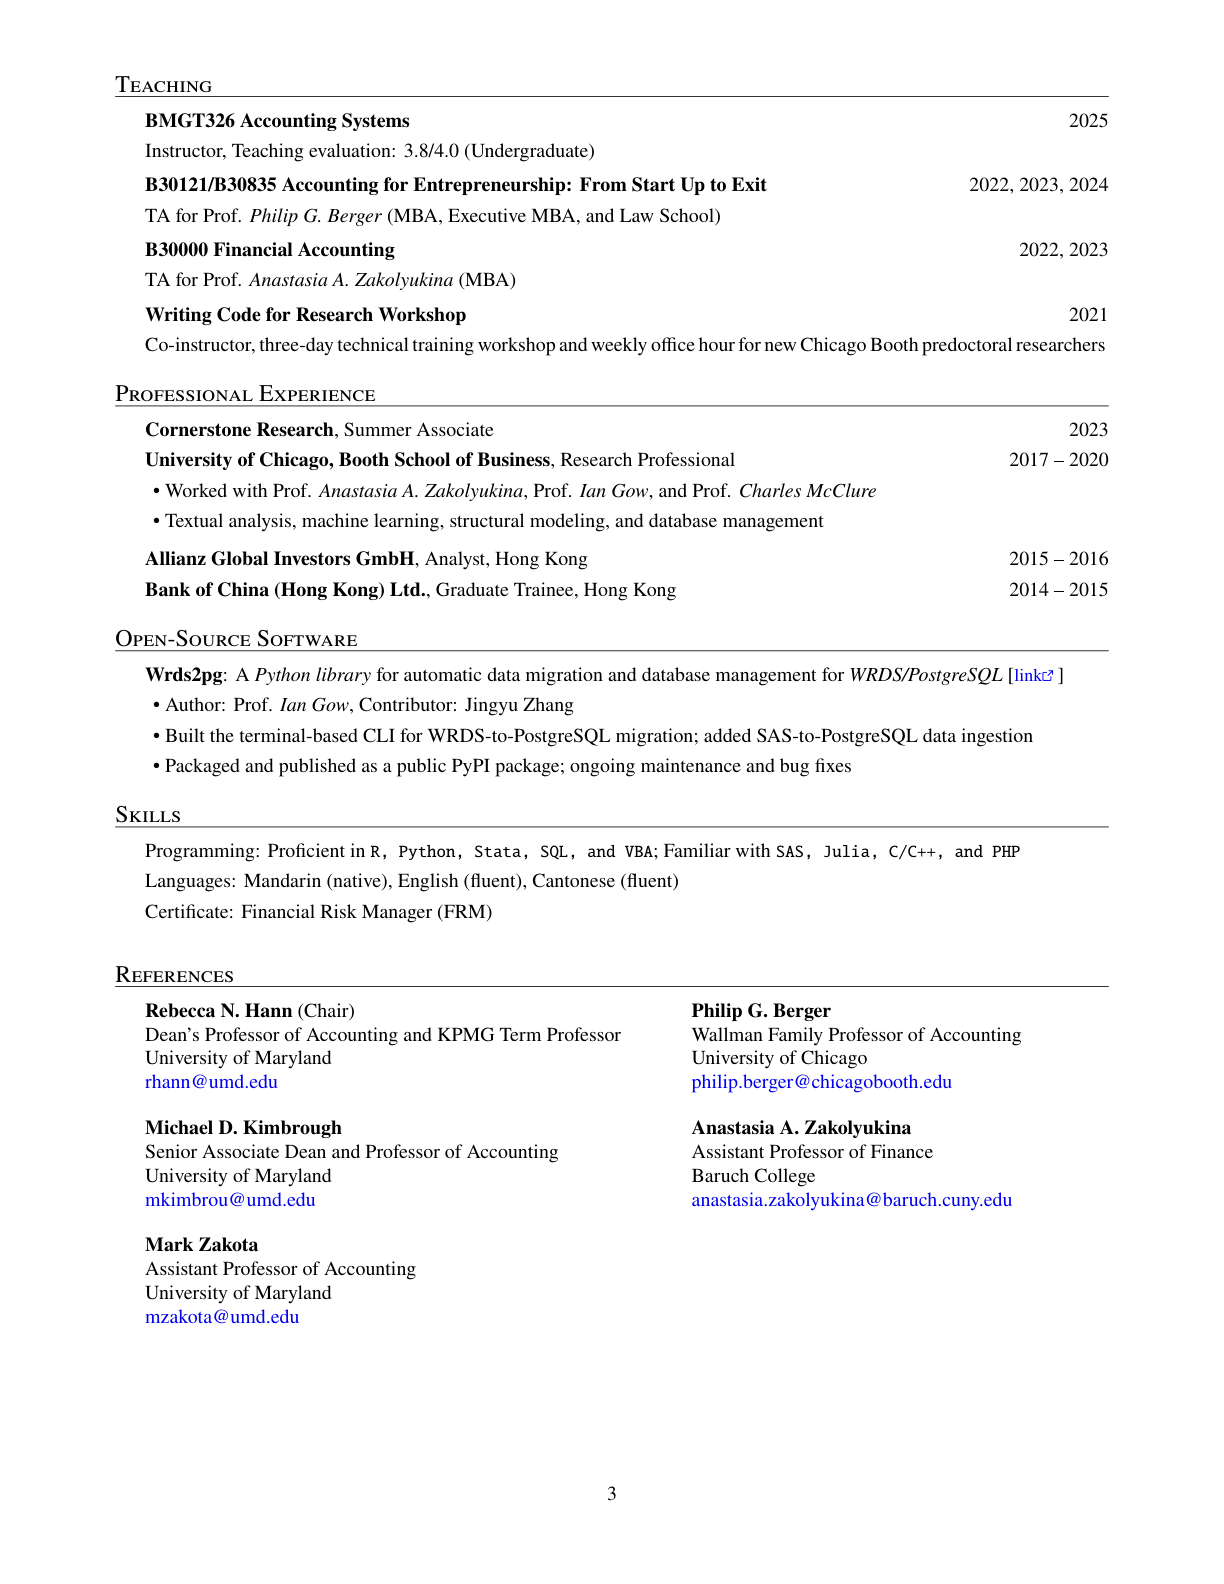
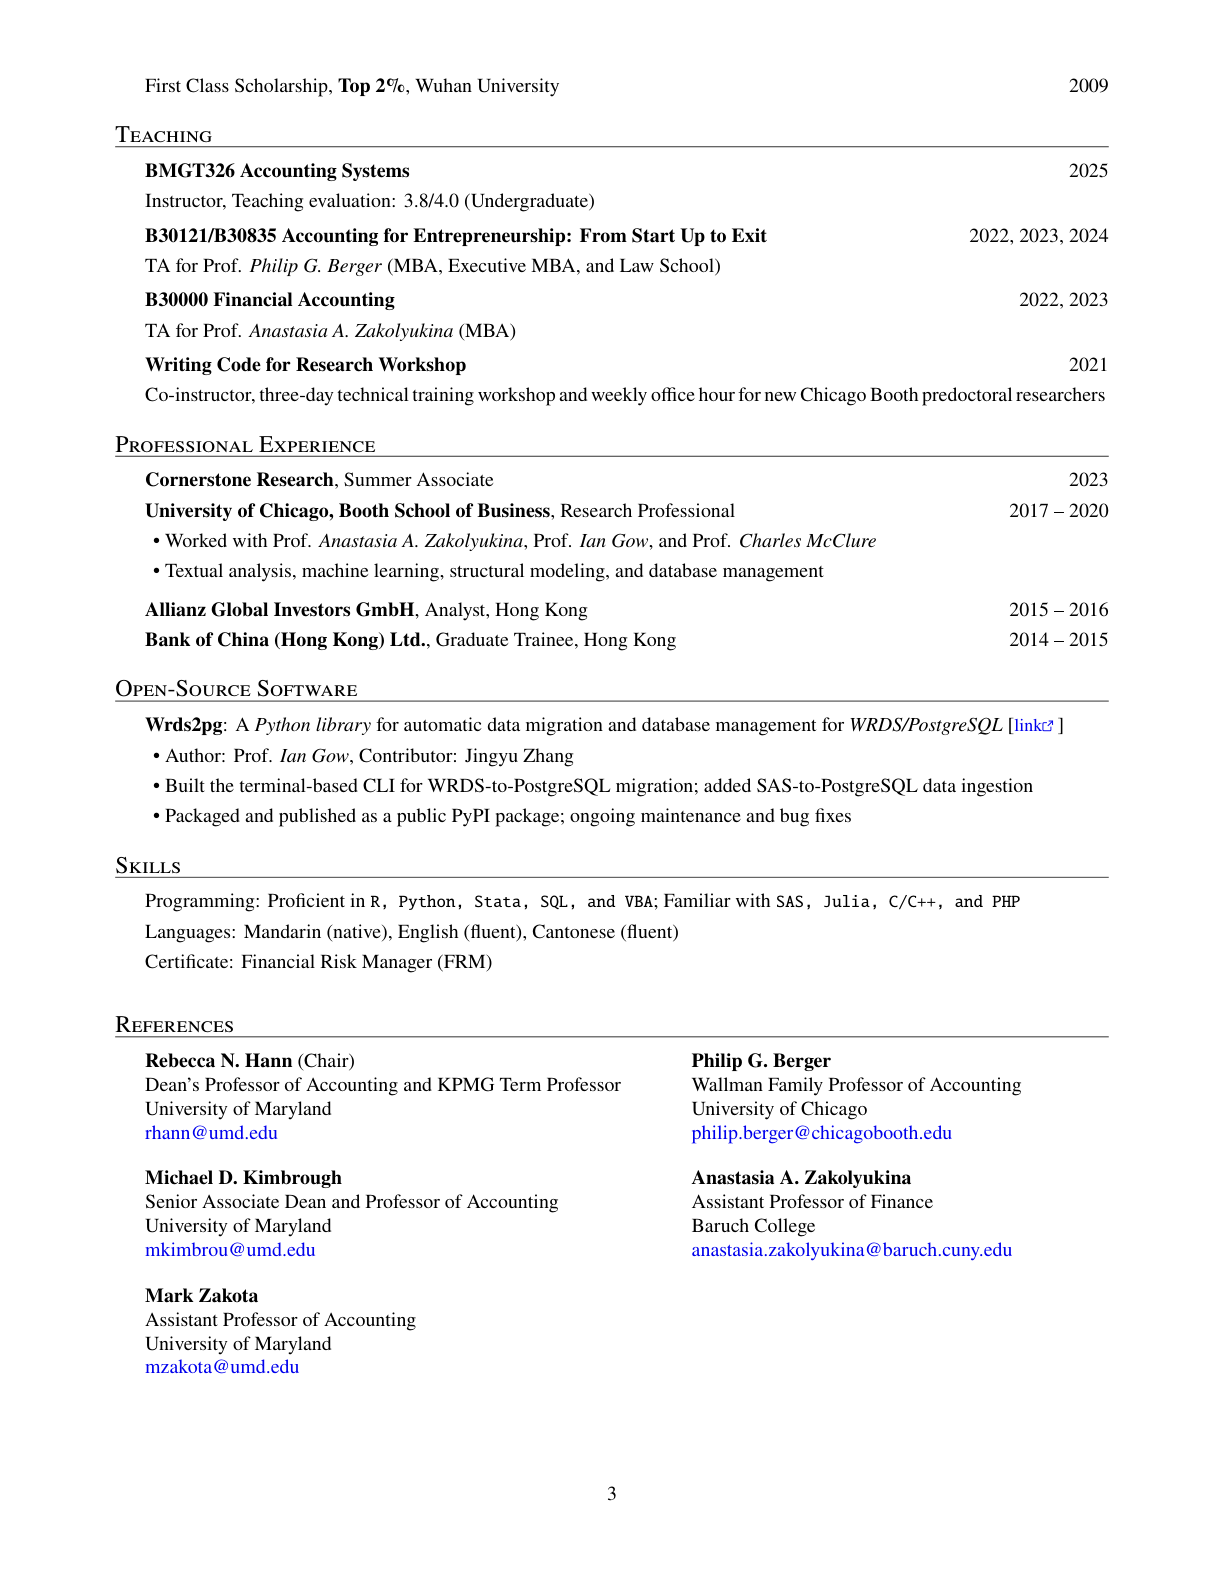
CV and research page: GenAI paper at 2027 FARS Midyear Meeting

Changed region(s): [[0.0931, 0.0309, 0.9003, 0.8662], [0.5588, 0.6187, 0.8382, 0.8043], [0.3105, 0.8043, 0.3415, 0.8352]]

diff --git a/cv/index.html b/cv/index.html
@@ -485,7 +485,7 @@
       
         
           <div class="cv-page">
-            <img src="/media/cv/page-01.png?v=7d2dbd8bcd" alt="Curriculum vitae page 1" loading="lazy">
+            <img src="/media/cv/page-01.png?v=b0d9139c38" alt="Curriculum vitae page 1" loading="lazy">
             
               
                 
@@ -514,7 +514,7 @@
       
         
           <div class="cv-page">
-            <img src="/media/cv/page-02.png?v=7d2dbd8bcd" alt="Curriculum vitae page 2" loading="lazy">
+            <img src="/media/cv/page-02.png?v=b0d9139c38" alt="Curriculum vitae page 2" loading="lazy">
             
               
                 
@@ -525,27 +525,27 @@
       
         
           <div class="cv-page">
-            <img src="/media/cv/page-03.png?v=7d2dbd8bcd" alt="Curriculum vitae page 3" loading="lazy">
+            <img src="/media/cv/page-03.png?v=b0d9139c38" alt="Curriculum vitae page 3" loading="lazy">
             
               
                 
                   <a class="cv-hit" href="https://pypi.org/project/wrds2pg/" target="_blank" rel="noopener"
-                     style="left:82.697%;top:41.993%;width:3.869%;height:1.392%"></a>
+                     style="left:82.697%;top:45.168%;width:3.869%;height:1.392%"></a>
                 
                   <a class="cv-hit" href="mailto:rhann@umd.edu" target="_blank" rel="noopener"
-                     style="left:11.691%;top:67.719%;width:11.183%;height:1.135%"></a>
+                     style="left:11.691%;top:70.894%;width:11.183%;height:1.135%"></a>
                 
                   <a class="cv-hit" href="mailto:philip.berger@chicagobooth.edu" target="_blank" rel="noopener"
-                     style="left:56.338%;top:67.719%;width:21.628%;height:1.392%"></a>
+                     style="left:56.338%;top:70.894%;width:21.628%;height:1.392%"></a>
                 
                   <a class="cv-hit" href="mailto:mkimbrou@umd.edu" target="_blank" rel="noopener"
-                     style="left:11.691%;top:75.139%;width:14.26%;height:1.135%"></a>
+                     style="left:11.691%;top:78.314%;width:14.26%;height:1.135%"></a>
                 
                   <a class="cv-hit" href="mailto:anastasia.zakolyukina@baruch.cuny.edu" target="_blank" rel="noopener"
-                     style="left:56.338%;top:75.139%;width:26.548%;height:1.392%"></a>
+                     style="left:56.338%;top:78.314%;width:26.548%;height:1.392%"></a>
                 
                   <a class="cv-hit" href="mailto:mzakota@umd.edu" target="_blank" rel="noopener"
-                     style="left:11.691%;top:82.54%;width:12.943%;height:1.135%"></a>
+                     style="left:11.691%;top:85.715%;width:12.943%;height:1.135%"></a>
                 
               
             

diff --git a/research/index.html b/research/index.html
@@ -531,7 +531,7 @@
 <ul>
   <li>With Philip G. Berger, Rebecca N. Hann, and Kristen Valentine</li>
   <li>Awarded the Polsky Center for Entrepreneurship and Innovation Research Grant, University of Chicago</li>
-  <li><strong>Presented at:</strong> 2026 Labor &amp; Finance Conference*, National University of Singapore*, Fordham University*</li>
+  <li><strong>Presented at:</strong> 2027 FARS Midyear Meeting (scheduled), 2026 Labor &amp; Finance Conference*, National University of Singapore*, Fordham University*</li>
 </ul>
 <details>
   <summary>Abstract</summary>
